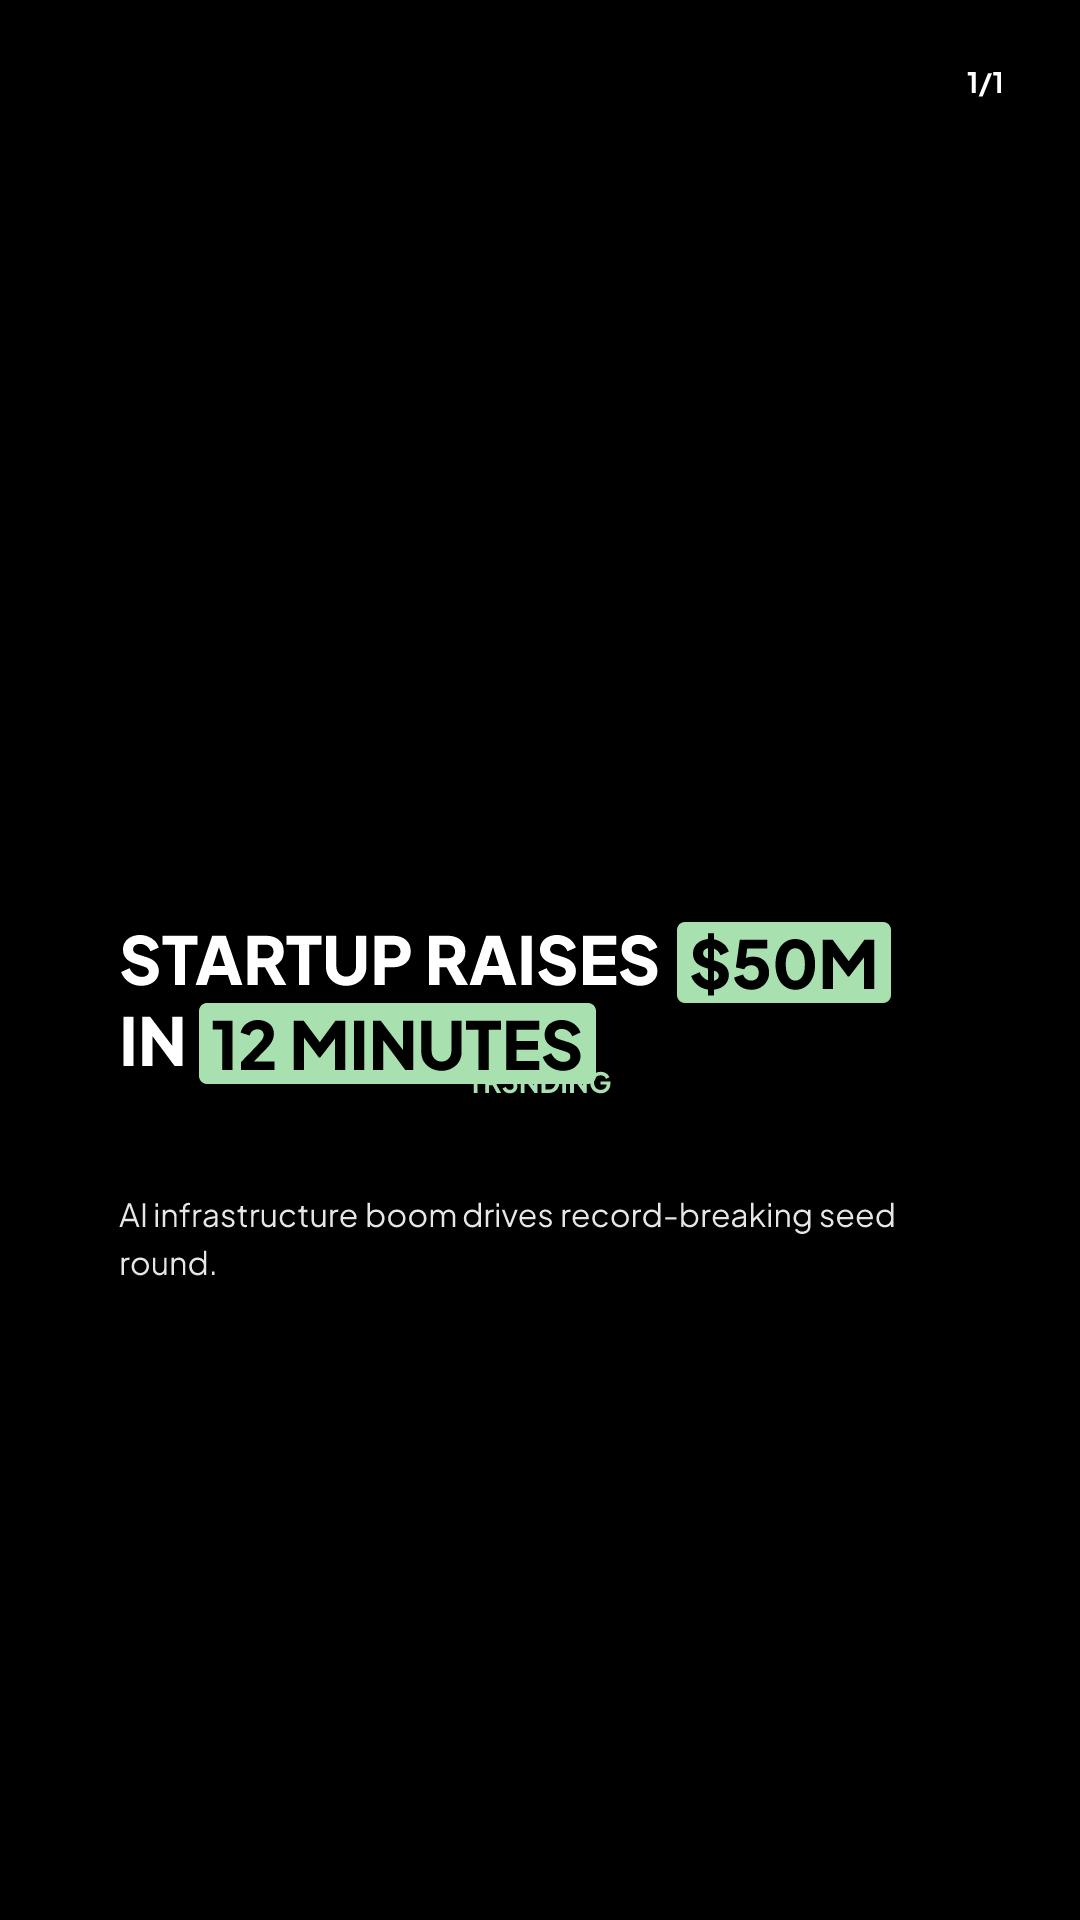
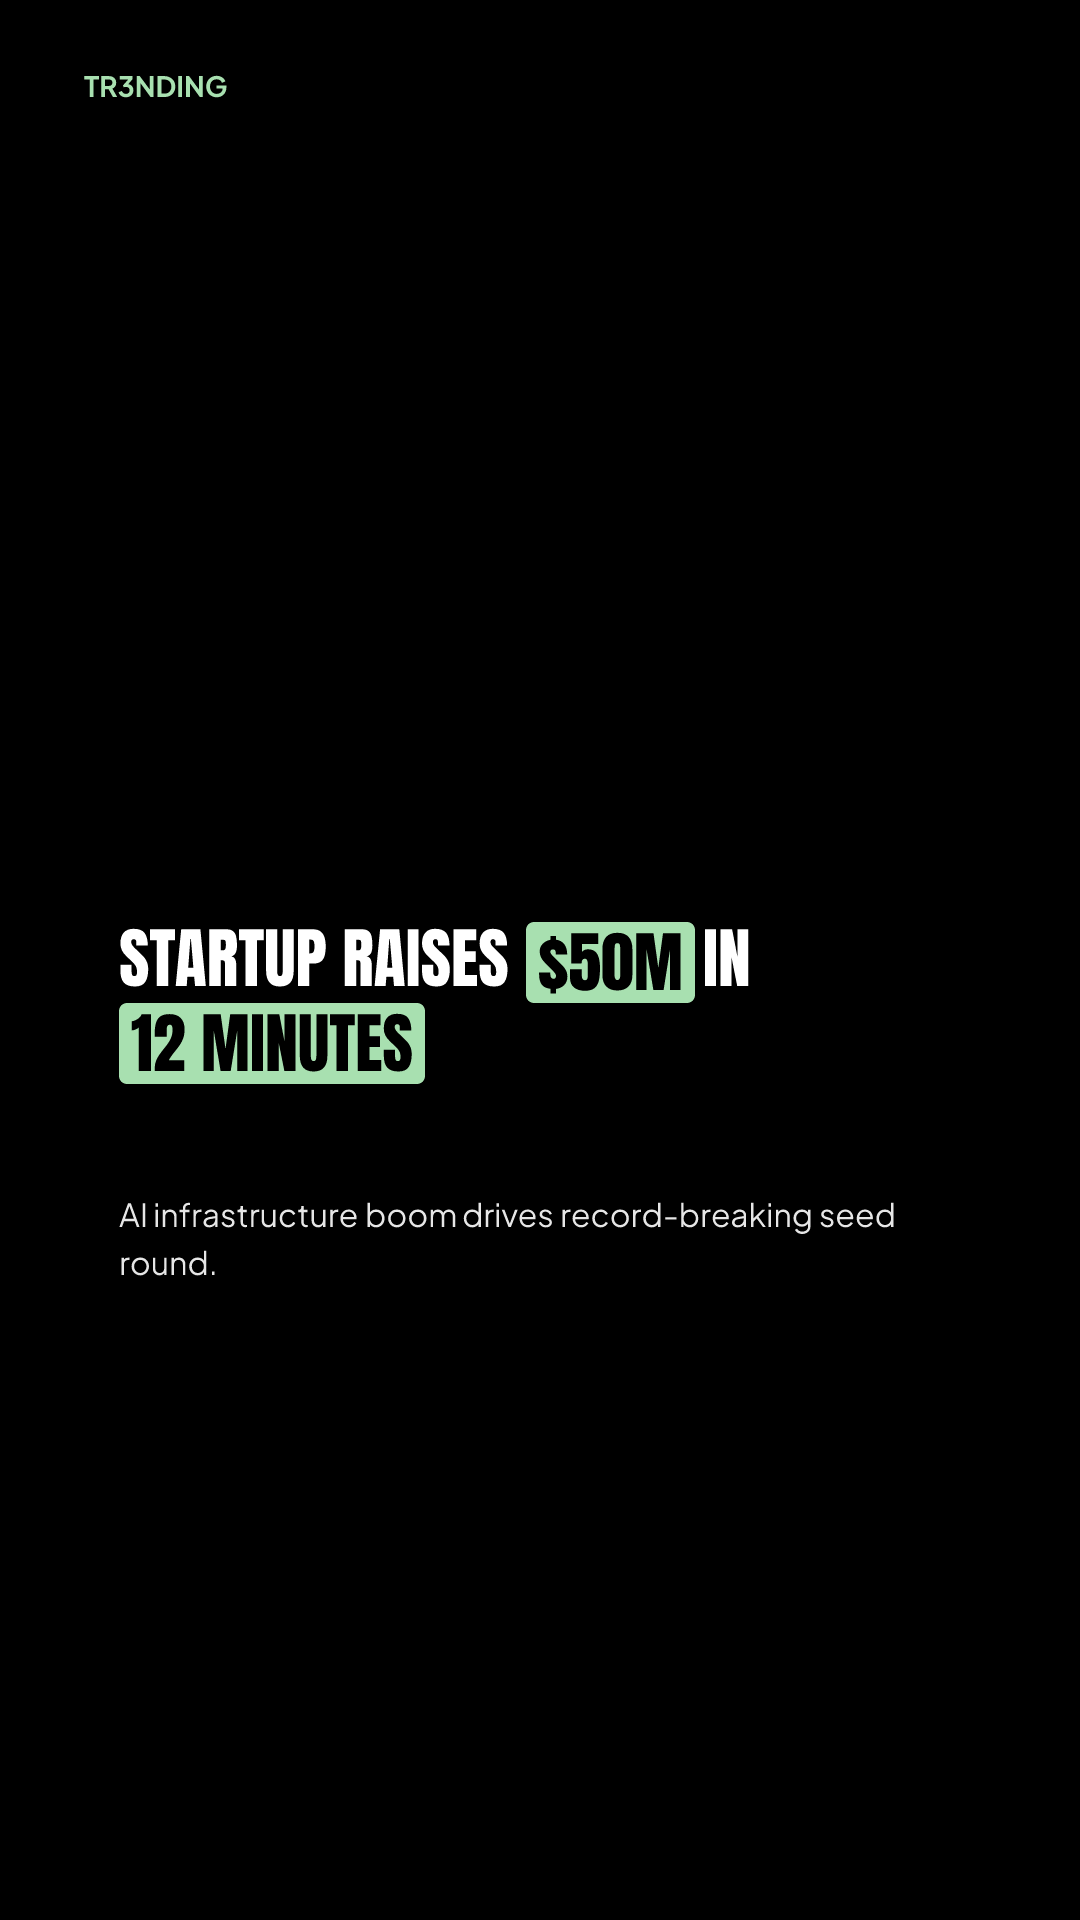
fix(quick-260519-pbg): move TR3NDING pill from mid to top-left kicker
The 'mid' overlay slot anchors at top:55% horizontally centered — which
landed dead-center on the photo subject's face on most stock photography,
turning the kicker into an occluder. The user flagged this on a real
"TRUMP MOVES TO UNBLOCK NVIDIA CHIPS FOR CHINA" generation where the pill
sat over Karoline Leavitt's body.

'top-left' is the magazine-kicker convention — above the headline, out
of the photo's central focus zone. The pill geometry (black bg, mint
text, pill border-radius) is unchanged; only the slot moved.

User-approved 2026-05-19 via AskUserQuestion (4 options surveyed).

Changed region(s): [[0.0917, 0.4688, 0.825, 0.5938], [0.0917, 0.0312, 0.2139, 0.0625], [0.8861, 0.0312, 0.9167, 0.0625]]

diff --git a/src/lib/render/templates/tr3nding-news.ts b/src/lib/render/templates/tr3nding-news.ts
@@ -53,7 +53,12 @@ export const tr3ndingNews: SlideTemplate = {
       },
     },
     {
-      position: 'mid',
+      // quick-260519-pbg: moved from 'mid' (top:55% center) to 'top-left'.
+      // The mid slot landed dead-center on the photo subject's face on
+      // most stock photography — turning the kicker into an occluder.
+      // Top-left is the magazine-kicker convention (above the headline,
+      // out of the photo's central focus zone).
+      position: 'top-left',
       content: { type: 'literal', text: 'TR3NDING' },
       style: {
         background: '#000000',
